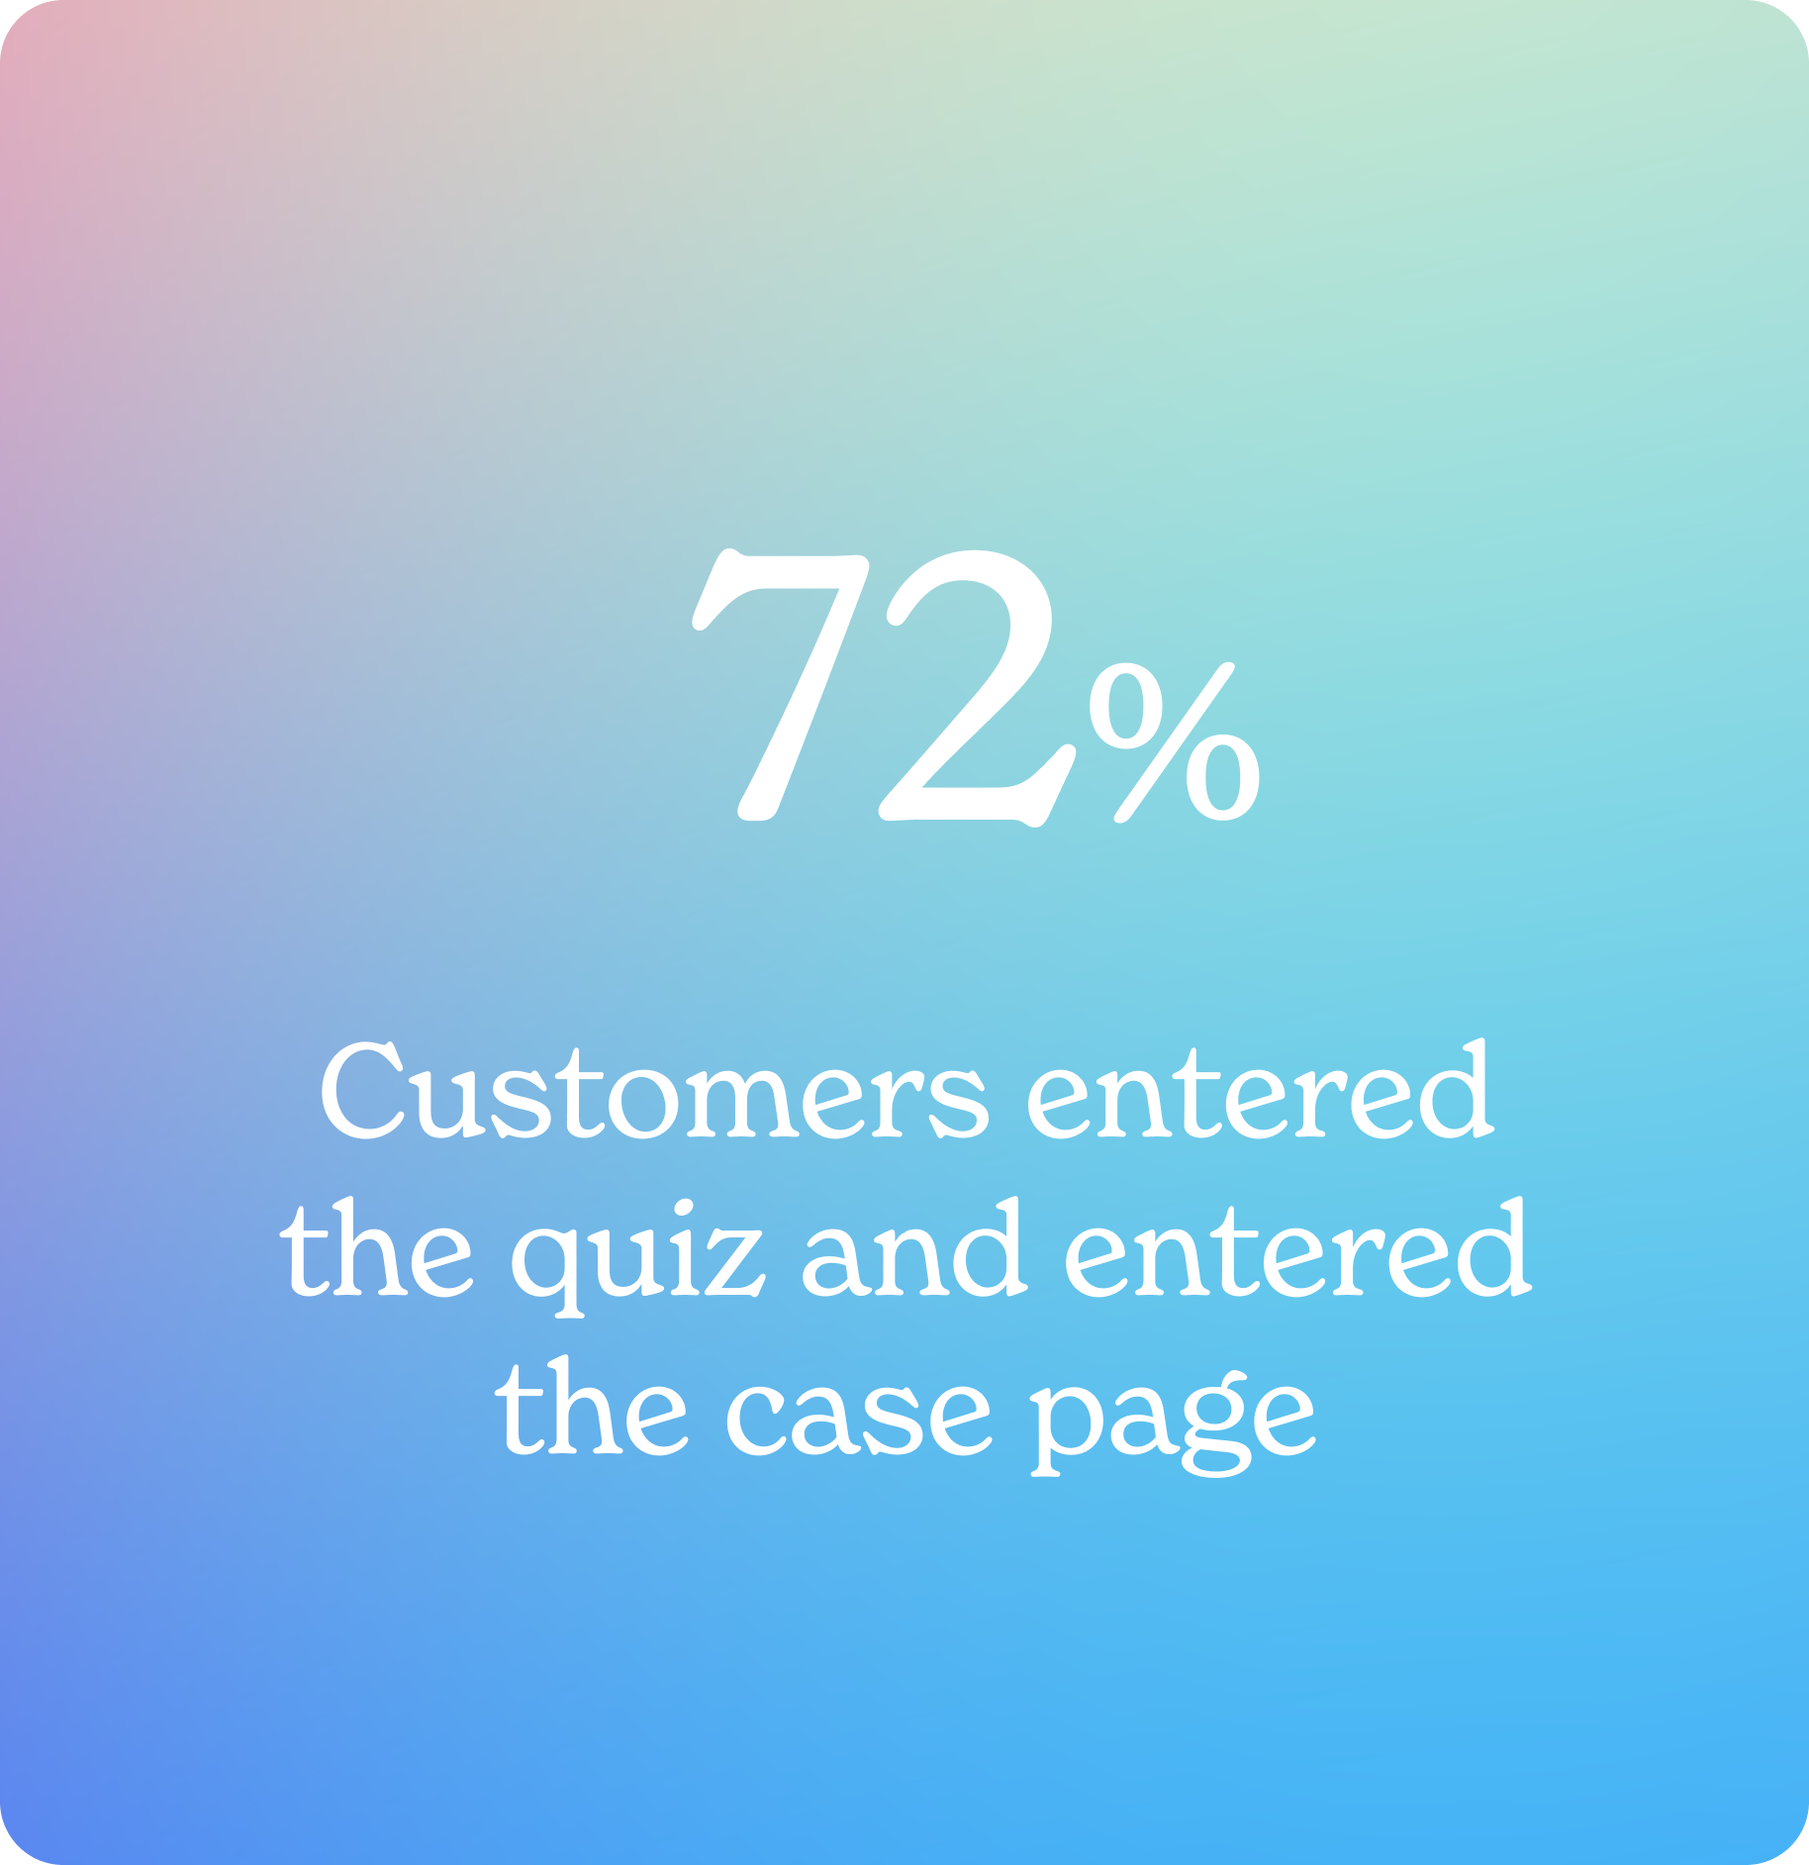
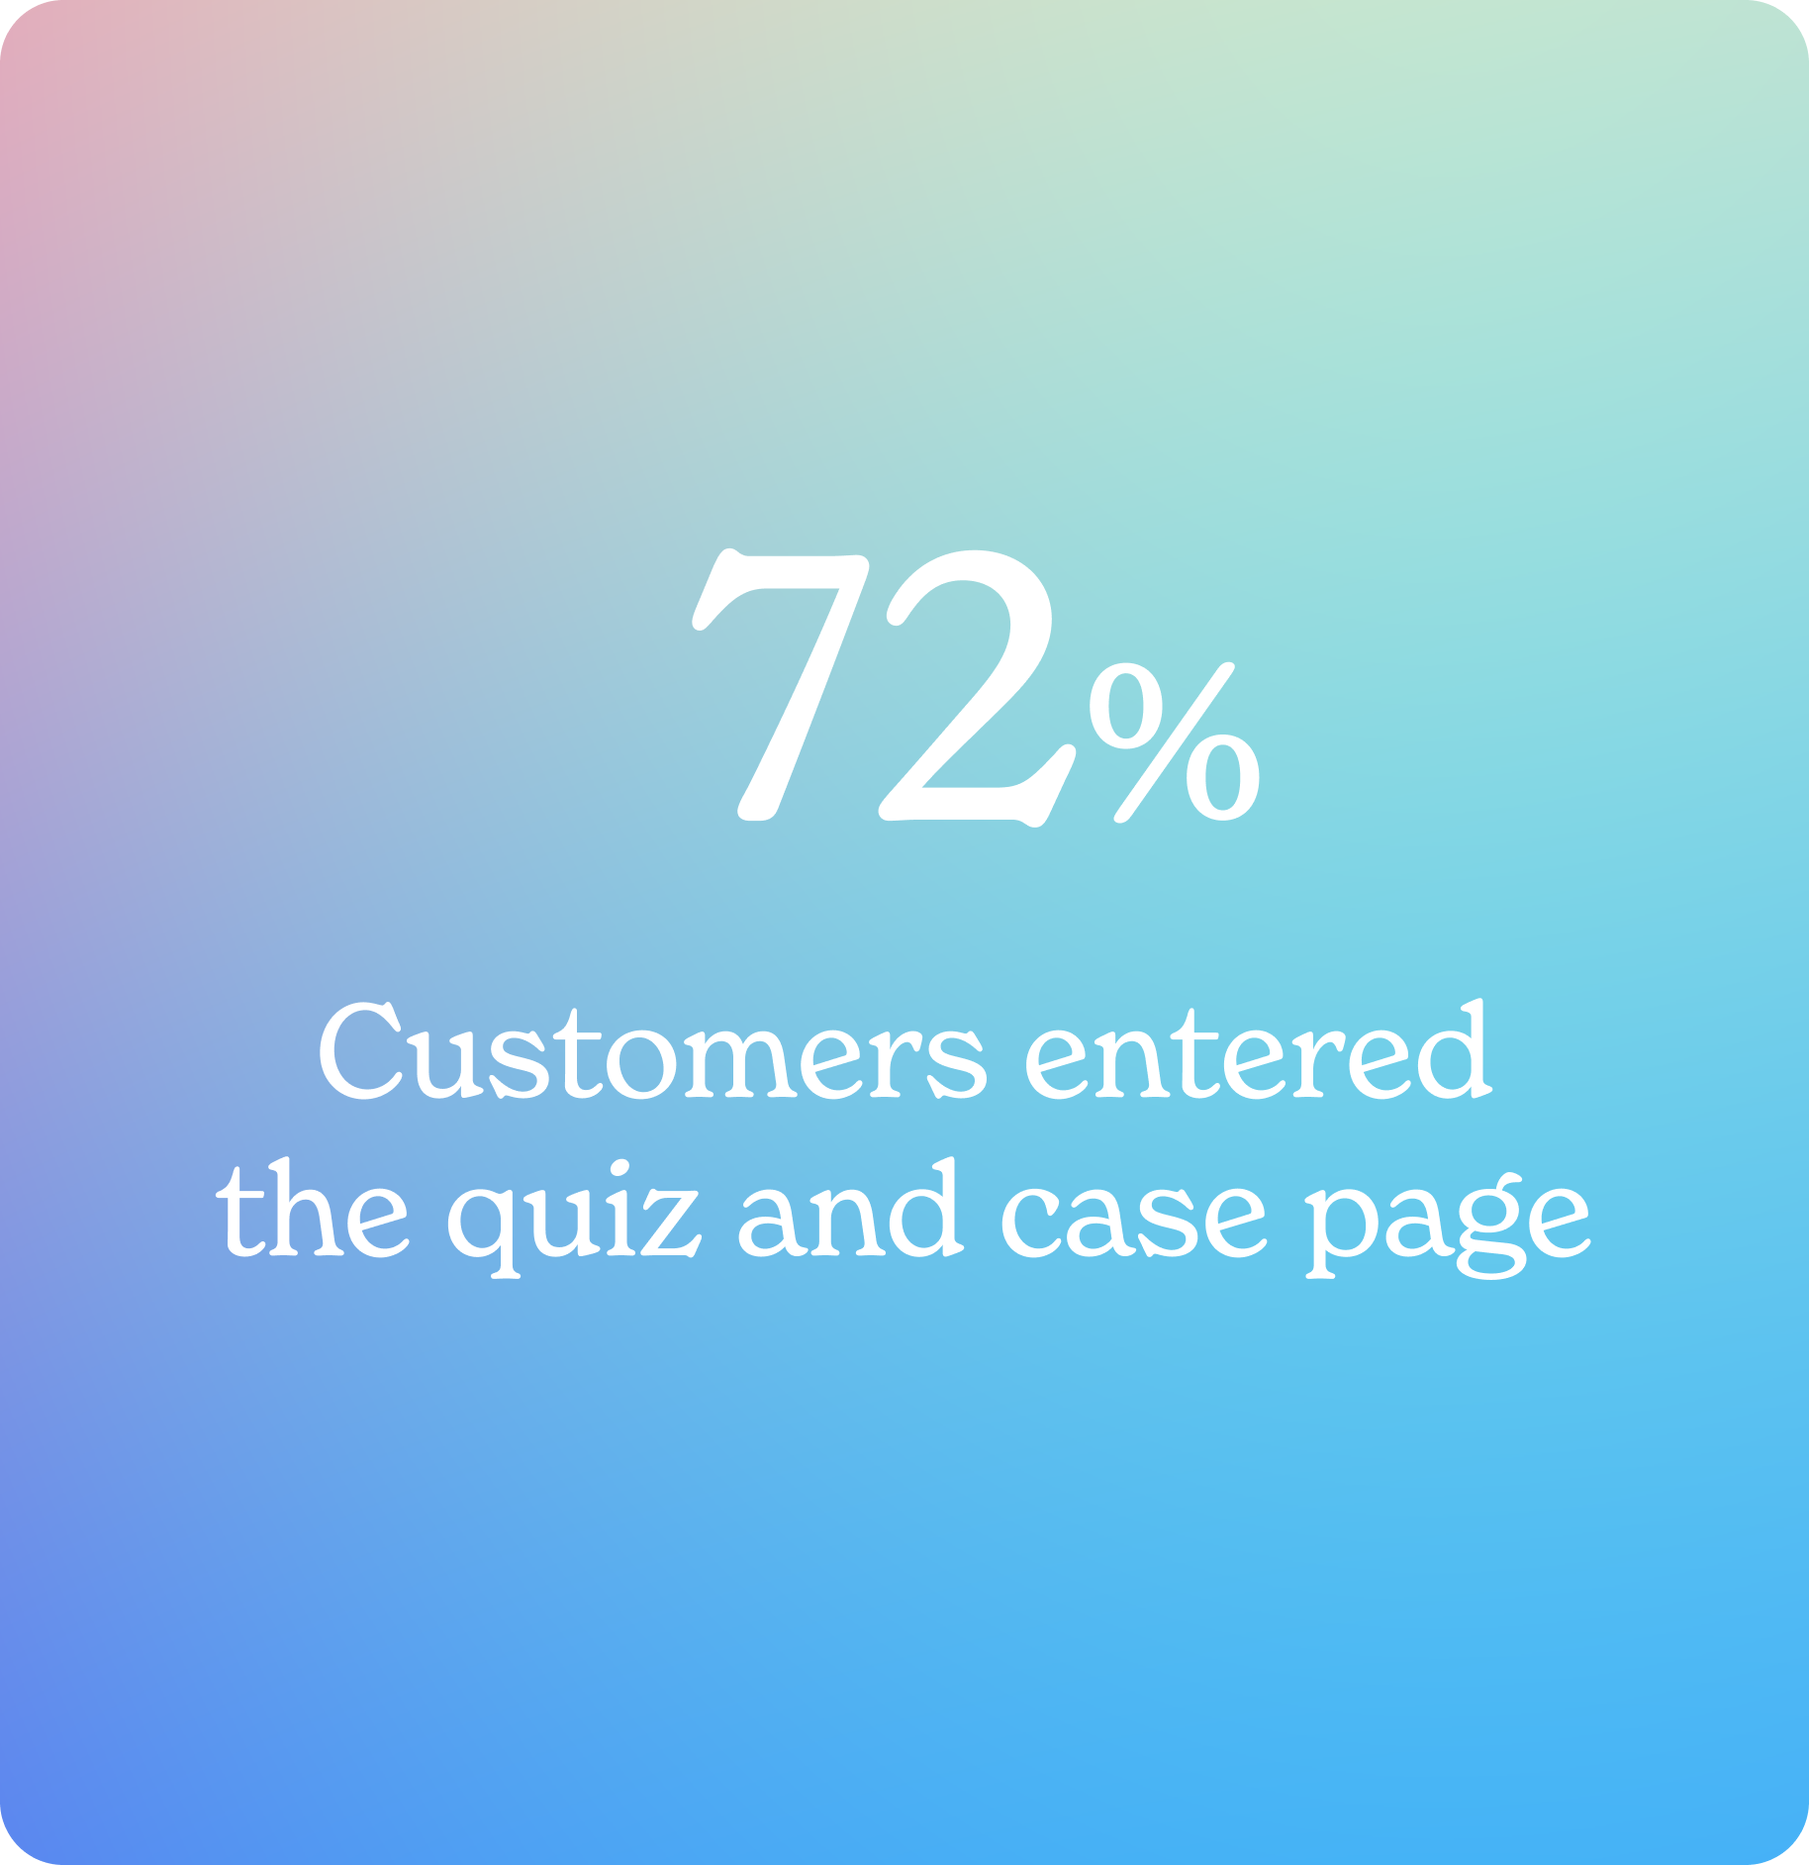
final amends

Changed region(s): [[0.1247, 0.5234, 0.8731, 0.8004]]

diff --git a/wine-genie-case-study.html b/wine-genie-case-study.html
@@ -106,7 +106,7 @@
                     <div class="hero-header">
                         <div class="row justify-end" id="nw">
                             <div class="col col__8--lg col__10--md">
-                                <h1 class="hero headline fade-up-sm">Rebranding Wine Genie: How to uncork brilliance and
+                                <h1 class="hero headline fade-up-sm">Repositioning Wine Genie: How to uncork potential and
                                     boost conversion for existing Naked Wines customers</h1>
 
                             </div>
@@ -197,17 +197,17 @@
                                             href="https://www.nakedwines.com/wm-2021"
                                             style="color:#2175DC!important;" target="_blank">Check out
                                             the
-                                            existing new customer flow here</a><svg class="icon icon-md icon-arrow">
+                                            existing new customer flow</a><svg class="icon icon-md icon-arrow">
                                                 <use xlink:href="#icon-arrow"></use>
                                             </svg></p>
                                 </div>
                             </div>
                             <div class="row">
                                 <div class="col col__12--lg col-12-img">
-                                    <span class="badge">New Customer User Flow</span>
+                                    <span class="badge">New customer user flow</span>
                                     <div class="pb-4"></div>
                                     <img src="img/wg-flow-v2.png" class="img-responsive border lazy"
-                                        class="img-responsive lazy" alt="A/B Testing of New Naked Wines Branding">
+                                        class="img-responsive lazy" alt="Wine Genie user flow">
 
                                 </div>
                             </div>
@@ -220,7 +220,7 @@
                                         <img src="img/wg-quiz.jpg" class="img-responsive border lazy" style="width: 100%;
                                     max-width: none;
                                     border-radius: 25px " class="img-responsive lazy"
-                                            alt="A/B Testing of New Naked Wines Branding">
+                                            alt="Wine Genie quiz page">
                                     </div>
                                 </div>
                                 <div class="col col__6--lg col__6--img">
@@ -231,7 +231,7 @@
                                         <img src="img/wg-case-page.jpg" class="img-responsive border lazy" style="width: 100%;
                                     max-width: none;
                                     border-radius: 25px " class="img-responsive lazy"
-                                            alt="A/B Testing of New Naked Wines Branding">
+                                            alt="Wine Genie case page">
                                     </div>
                                 </div>
                             </div>
@@ -266,10 +266,10 @@
                             <div class="row">
                                 <div class="row">
                                     <div class="col col__12--lg col-12-img">
-                                        <span class="badge">Existing customer landing page</span>
+                                        <span class="badge">Original customer landing page</span>
                                         <div class="pb-4"></div>
                                         <img src="img/wg-old.png" class="img-responsive border lazy"
-                                            class="img-responsive lazy" alt="A/B Testing of New Naked Wines Branding">
+                                            class="img-responsive lazy" alt="Old Wine landing page">
     
                                     </div>
                                 </div>
@@ -278,25 +278,25 @@
                                 <div class="col col__3--lg col__6--sm">
 
                                     <img src="img/Samantha.png" class="img-responsive"
-                                        style="width: 100%; max-width: none;">
+                                        style="width: 100%; max-width: none;" alt="Samantha: I mean, it's really confusing. I don't know the key benefits of what I'm signing up to.">
 
                                 </div>
                                 <div class="col col__3--lg col__6--sm">
 
                                     <img src="img/Brian.png" class="img-responsive"
-                                        style="width: 100%; max-width: none;">
+                                        style="width: 100%; max-width: none;" alt="Brian: Why does this page look so old compared to the rest of the website? It doesn't look appealing or attractive to me.">
 
                                 </div>
                                 <div class="col col__3--lg col__6--sm">
 
                                     <img src="img/Kieran.png" class="img-responsive"
-                                        style="width: 100%; max-width: none;">
+                                        style="width: 100%; max-width: none;" alt="Kieran: Why is the page so long? I need to scroll so far down to all the information I need to learn. It's all a little overwhelming.">
 
                                 </div>
                                 <div class="col col__3--lg col__6--sm">
 
-                                    <img src="img/Nieve-ver1.png" class="img-responsive"
-                                        style="width: 100%; max-width: none;">
+                                    <img src="img/Nieve-ver-2.png" class="img-responsive"
+                                        style="width: 100%; max-width: none;" alt="Nieve: I like the idea of my wine being ordered without having to put much effort it. Can I trust Wine Genie is able to fulfil it?">
 
                                 </div>
                             </div>
@@ -334,7 +334,7 @@
                                 <span class="badge">Wireframes</span>
                                 <div class="pb-4"></div>
                                 <img src="img/wg-prototypes.jpg" class="img-responsive border lazy"
-                                    class="img-responsive lazy" alt="A/B Testing of New Naked Wines Branding">
+                                    class="img-responsive lazy" alt="Wine Genie landing wireframes">
 
                             </div>
                         </div>
@@ -367,7 +367,7 @@
                                         href="https://www.figma.com/proto/gQHc4c00CpwP0WG0qh2zxi/Repeat-Customer-Wine-Genie?page-id=1%3A2&type=design&node-id=13-24525&viewport=460%2C246%2C0.25&t=Zemgt0QQbv5aWEb3-1&scaling=scale-down&starting-point-node-id=13%3A24525&show-proto-sidebar=1&mode=design"
                                         style="color:#2175DC!important;" target="_blank">Check out
                                         the
-                                        prototypes here<svg class="icon icon-md icon-arrow">
+                                        prototypes<svg class="icon icon-md icon-arrow">
                                             <use xlink:href="#icon-arrow"></use>
                                         </svg></a></p>
                             </div>
@@ -377,7 +377,7 @@
                                 <span class="badge">Prototypes</span>
                                 <div class="pb-4"></div>
                                 <img src="img/wg-prototypes-hifi.jpg" class="img-responsive border lazy"
-                                    class="img-responsive lazy" alt="A/B Testing of New Naked Wines Branding">
+                                    class="img-responsive lazy" alt="Wine Genie prototypes">
                             </div>
                         </div>
 
@@ -402,7 +402,7 @@
                                     order
                                     to give to give them the confidence to take action.</p>
 
-                                <p>When we lead with 'how it works; (V1 & V3) customers had a better understanding: “I
+                                <p>When we lead with 'how it works' (V1 & V3) customers had a better understanding: “I
                                     can
                                     edit at any point in time. And that it will give me wines that I would enjoy based
                                     off
@@ -412,9 +412,9 @@
                                 <div class="case-meta">
                                     <p style="color:#2175DC">Key insight 2</p>
                                 </div>
-                                <p>People understood Wine Genie fully after reading the 1,2,3 step.</p>
+                                <p>People understood Wine Genie fully after reading the 1, 2, 3 step.</p>
 
-                                <p> Simplifying the steps down to a 1,2,3 made it easier to understand. A cleaner UI
+                                <p> Simplifying the steps down to a 1, 2, 3 made it easier to understand. A cleaner UI
                                     followed by concise and instructive titles helped users 'get it' much quicker.</p>
                                 <div class="case-meta">
                                     <p style="color:#2175DC">Key insight 3</p>
@@ -426,7 +426,7 @@
                                 <p> With good user experience and succinct content design, we can prime customers to be
                                     more open to the idea of signing up, when they first enter the quiz. We can also do
                                     this by building trust in Wine Genie through external validation, like the
-                                    USA Today award. .</p>
+                                    USA Today award.</p>
                             </div>
                         </div>
                         <div class="row">
@@ -434,7 +434,7 @@
                                 <span class="badge">Winning mobile variant</span>
                                 <div class="pb-4"></div>
                                 <img src="img/wg-winning-variant-mobile.png" class="img-responsive lazy border"
-                                    alt="A/B Testing of New Naked Wines Branding">
+                                    alt="Wine Genie winning mobile variant">
 
                             </div>
                         </div>
@@ -443,7 +443,7 @@
                                 <span class="badge">Winning desktop variant</span>
                                 <div class="pb-4"></div>
                                 <img src="img/wg-winning-variant.png" class="img-responsive lazy border"
-                                    alt="A/B Testing of New Naked Wines Branding">
+                                    alt="Wine Genie winning desktop variant">
                             </div>
                         </div>
                     </div>
@@ -461,7 +461,7 @@
                             <div class="col col__5--lg col__12--md mb-20">
                                 <h4 class="mb-6">What does success look like?</h4>
 
-                                <p>It's still earlier days, but the results speak for themselves.</p>
+                                <p>It's still early days, but the results look promising.</p>
 
                                 <p>Among our existing customer base, there were 15,000 unique views, a substantial
                                     figure. Notably, 72% of these customers engaged with the quiz and proceeded
@@ -469,7 +469,7 @@
                                     interest by adding items to their basket. Finally, an impressive 8% of these
                                     individuals made the decision to subscribe to Wine Genie.</p>
 
-                                    <p><a href="https://us.nakedwines.com/wine-genie" style="color:#2175DC!important;" target="_blank">Check out the landing page here<svg class="icon icon-md icon-arrow">
+                                    <p><a href="https://us.nakedwines.com/wine-genie" style="color:#2175DC!important;" target="_blank">Check out the landing page<svg class="icon icon-md icon-arrow">
                                         <use xlink:href="#icon-arrow"></use>
                                     </svg></a></p>
 
@@ -482,26 +482,26 @@
                             <div class="col col__3--lg col__6--sm">
 
                                 <img src="img/metric-1.png" class="img-responsive"
-                                    style="width: 100%; max-width: none;">
+                                    style="width: 100%; max-width: none;" alt="15k: Existing customer unique views">
 
                             </div>
                             <div class="col col__3--lg col__6--md col__6--sm">
 
                                 <img src="img/metric-2-ver1.png" class="img-responsive"
-                                    style="width: 100%; max-width: none;">
+                                    style="width: 100%; max-width: none;" alt="72%: Customers entered the quiz and case page">
 
                             </div>
                             <div class="col col__3--lg col__6--md col__6--sm">
 
                                 <img src="img/metric-3.png" class="img-responsive"
-                                    style="width: 100%; max-width: none;">
+                                    style="width: 100%; max-width: none;" alt="23%: Customers added to basket">
 
                             </div>
 
                             <div class="col col__3--lg col__6--md col__6--sm">
 
                                 <img src="img/metric-4.png" class="img-responsive"
-                                    style="width: 100%; max-width: none;">
+                                    style="width: 100%; max-width: none;" alt="8%: Subscribed to Wine Genie">
 
                             </div>
                         </div>

diff --git a/styles/styles.css b/styles/styles.css
@@ -350,7 +350,7 @@ ul.roles li {
     background: #F3F3F3;
     border-radius: 54px;
     width: 100%;
-    font-size: 12px;
+    font-size: 14px;
     margin: 0px;
 }
 
